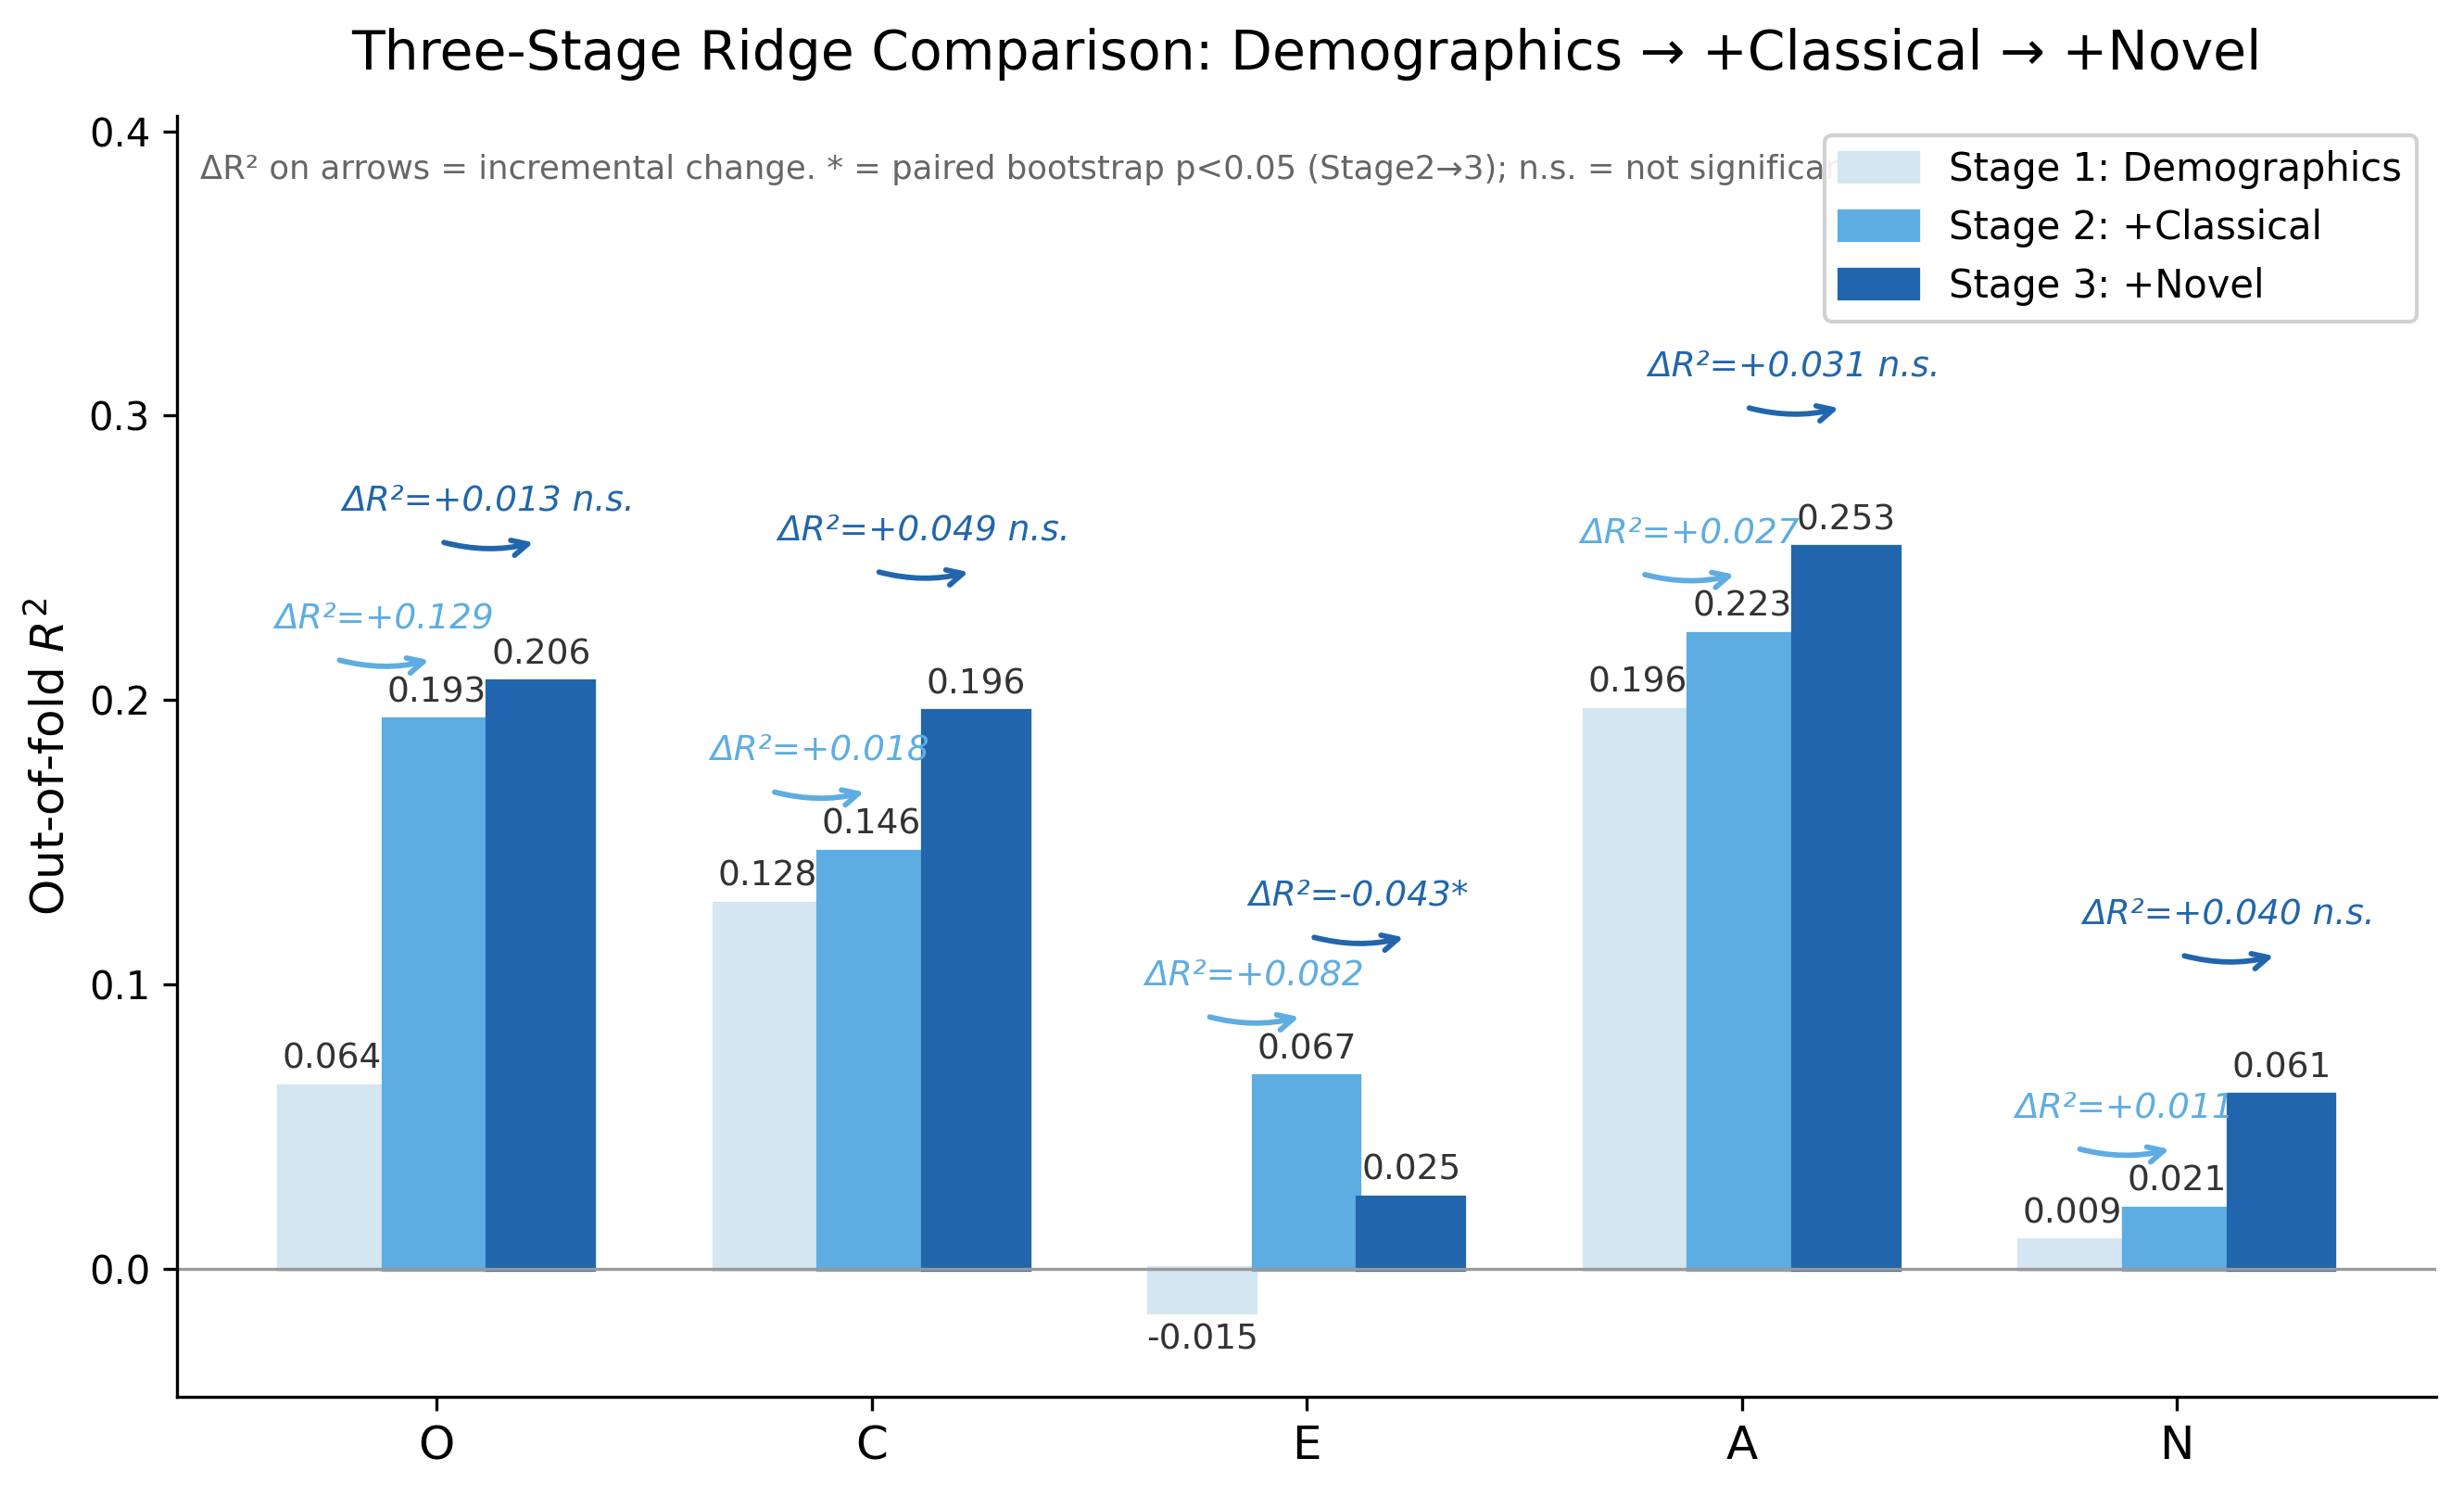
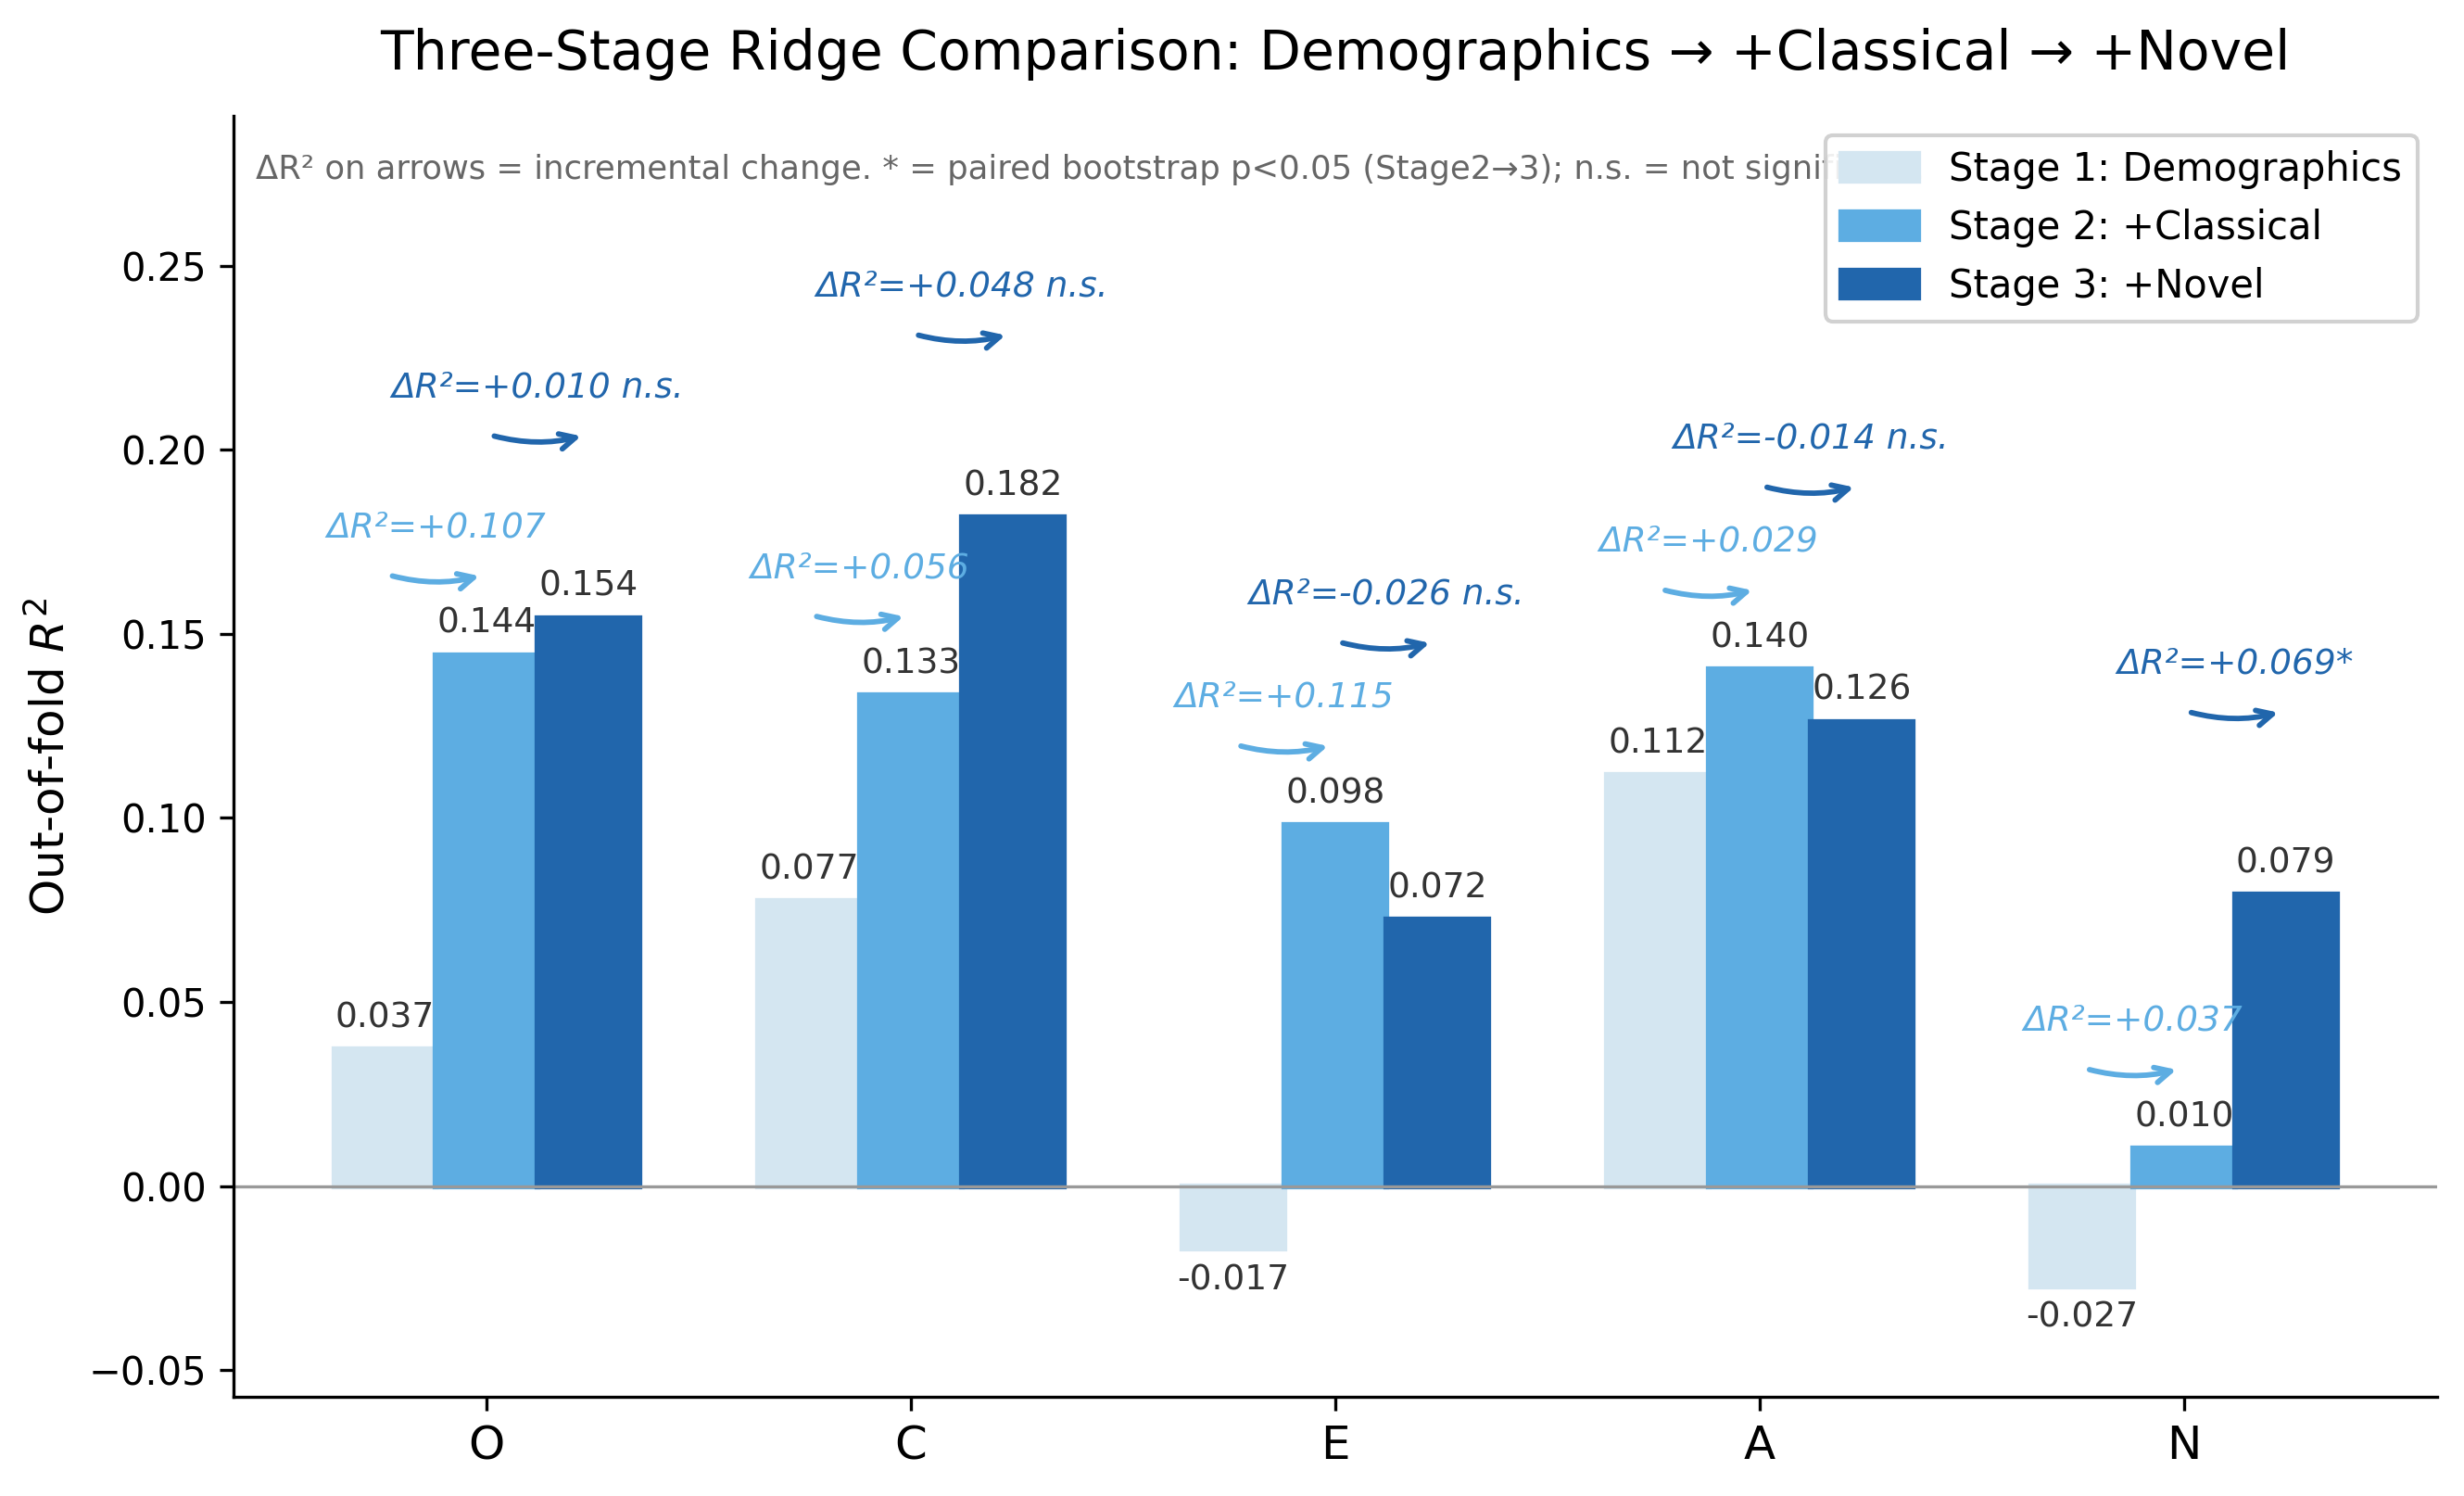
fix: 3段階Ridge系のCVをGroupKFold(subject-wise)に統一し本文を再整合
宗田さんの宿題対応の過程で、3段階Ridge系3スクリプト(ridge/metrics_diag/paired_test)が本文記述(subject-wise/GroupKFold)に反して通常KFoldを使用していた不整合を修正。cv_oof_predictionsをGroupKFold(groups=cejc_person_id)対応にし、図4・表6・付録r版・paired検定を再生成。本文/考察/結論の数値と有意性を新subject-wise結果に更新(Stage2→3はO/C/Nで+R²、有意増分はNのみでありWilcoxon非一致のため頑健でない/Eの有意悪化は消失)。caption等の'被験者単位'を'各レコード(会話×話者)単位'に正確化。uplatex 2pass+dvipdfmx 正常、未定義参照/引用ゼロ。

diff --git a/reports/paper_figs_v2/tab_three_stage.tex b/reports/paper_figs_v2/tab_three_stage.tex
@@ -2,24 +2,24 @@
 \toprule
 Trait & Stage & $n_{feat}$ & $R^2_{oof}$ & RMSE & $\Delta R^2$ & $\Delta$RMSE \\
 \midrule
-O & Demographics & 2 & 0.064 & 0.327 & --- & --- \\
- & +Classical & 12 & 0.193 & 0.304 & +0.129 & -0.023 \\
- & +Novel & 21 & 0.206 & 0.301 & +0.013$^{\mathrm{ns}}$ & -0.003$^{\mathrm{ns}}$ \\
+O & Demographics & 2 & 0.037 & 0.332 & --- & --- \\
+ & +Classical & 12 & 0.144 & 0.313 & +0.107 & -0.019 \\
+ & +Novel & 21 & 0.154 & 0.311 & +0.010$^{\mathrm{ns}}$ & -0.002$^{\mathrm{ns}}$ \\
 \midrule
-C & Demographics & 2 & 0.128 & 0.394 & --- & --- \\
- & +Classical & 12 & 0.146 & 0.390 & +0.018 & -0.004 \\
- & +Novel & 21 & 0.196 & 0.379 & +0.049$^{\mathrm{ns}}$ & -0.011$^{\mathrm{ns}}$ \\
+C & Demographics & 2 & 0.077 & 0.406 & --- & --- \\
+ & +Classical & 12 & 0.133 & 0.393 & +0.056 & -0.013 \\
+ & +Novel & 21 & 0.182 & 0.382 & +0.048$^{\mathrm{ns}}$ & -0.011$^{\mathrm{ns}}$ \\
 \midrule
-E & Demographics & 2 & -0.015 & 0.345 & --- & --- \\
- & +Classical & 12 & 0.067 & 0.331 & +0.082 & -0.014 \\
- & +Novel & 21 & 0.025 & 0.339 & -0.043$^{*}$ & +0.007$^{*}$ \\
+E & Demographics & 2 & -0.017 & 0.346 & --- & --- \\
+ & +Classical & 12 & 0.098 & 0.326 & +0.115 & -0.020 \\
+ & +Novel & 21 & 0.072 & 0.330 & -0.026$^{\mathrm{ns}}$ & +0.005$^{\mathrm{ns}}$ \\
 \midrule
-A & Demographics & 2 & 0.196 & 0.231 & --- & --- \\
- & +Classical & 12 & 0.223 & 0.227 & +0.027 & -0.004 \\
- & +Novel & 21 & 0.253 & 0.222 & +0.031$^{\mathrm{ns}}$ & -0.004$^{\mathrm{ns}}$ \\
+A & Demographics & 2 & 0.112 & 0.242 & --- & --- \\
+ & +Classical & 12 & 0.140 & 0.238 & +0.029 & -0.004 \\
+ & +Novel & 21 & 0.126 & 0.240 & -0.014$^{\mathrm{ns}}$ & +0.002$^{\mathrm{ns}}$ \\
 \midrule
-N & Demographics & 2 & 0.009 & 0.362 & --- & --- \\
- & +Classical & 12 & 0.021 & 0.360 & +0.011 & -0.002 \\
- & +Novel & 21 & 0.061 & 0.353 & +0.040$^{\mathrm{ns}}$ & -0.007$^{\mathrm{ns}}$ \\
+N & Demographics & 2 & -0.027 & 0.369 & --- & --- \\
+ & +Classical & 12 & 0.010 & 0.362 & +0.037 & -0.007 \\
+ & +Novel & 21 & 0.079 & 0.349 & +0.069$^{*}$ & -0.013$^{*}$ \\
 \bottomrule
 \end{tabular}

diff --git a/reports/paper_figs_v2/tab_three_stage_r.tex b/reports/paper_figs_v2/tab_three_stage_r.tex
@@ -2,24 +2,24 @@
 \toprule
 Trait & Stage & $n_{feat}$ & $r_{oof}$ & $r_{foldmean}$ & $\Delta r_{oof}$ \\
 \midrule
-O & Demographics & 2 & 0.270 & 0.336 & --- \\
- & +Classical & 12 & 0.491 & 0.512 & +0.222 \\
- & +Novel & 21 & 0.474 & 0.481 & -0.017 \\
+O & Demographics & 2 & 0.196 & 0.264 & --- \\
+ & +Classical & 12 & 0.418 & 0.401 & +0.223 \\
+ & +Novel & 21 & 0.403 & 0.401 & -0.016 \\
 \midrule
-C & Demographics & 2 & 0.404 & 0.425 & --- \\
- & +Classical & 12 & 0.383 & 0.398 & -0.021 \\
- & +Novel & 21 & 0.443 & 0.469 & +0.060 \\
+C & Demographics & 2 & 0.287 & 0.387 & --- \\
+ & +Classical & 12 & 0.365 & 0.409 & +0.079 \\
+ & +Novel & 21 & 0.426 & 0.447 & +0.061 \\
 \midrule
-E & Demographics & 2 & 0.004 & 0.156 & --- \\
- & +Classical & 12 & 0.262 & 0.291 & +0.258 \\
- & +Novel & 21 & 0.200 & 0.237 & -0.062 \\
+E & Demographics & 2 & -0.009 & 0.121 & --- \\
+ & +Classical & 12 & 0.316 & 0.321 & +0.324 \\
+ & +Novel & 21 & 0.269 & 0.254 & -0.046 \\
 \midrule
-A & Demographics & 2 & 0.479 & 0.529 & --- \\
- & +Classical & 12 & 0.474 & 0.528 & -0.005 \\
- & +Novel & 21 & 0.505 & 0.538 & +0.031 \\
+A & Demographics & 2 & 0.335 & 0.540 & --- \\
+ & +Classical & 12 & 0.378 & 0.530 & +0.042 \\
+ & +Novel & 21 & 0.366 & 0.517 & -0.011 \\
 \midrule
-N & Demographics & 2 & 0.100 & 0.186 & --- \\
- & +Classical & 12 & 0.169 & 0.235 & +0.070 \\
- & +Novel & 21 & 0.268 & 0.311 & +0.099 \\
+N & Demographics & 2 & -0.029 & 0.228 & --- \\
+ & +Classical & 12 & 0.152 & 0.337 & +0.182 \\
+ & +Novel & 21 & 0.294 & 0.406 & +0.142 \\
 \bottomrule
 \end{tabular}

diff --git a/scripts/analysis/three_stage_metrics_diag.py b/scripts/analysis/three_stage_metrics_diag.py
@@ -10,9 +10,9 @@
 
 方針:
   - 特徴量セットとメタデータ結合は three_stage_ridge.py を再利用（同一定義を保証）
-  - CV設定も three_stage_ridge.py と同一（Ridge alpha=100, KFold shuffle seed=42,
-    median imputation + StandardScaler）
-  - ただし集計は OOF-pooled（全foldのout-of-fold予測を連結してから1回計算）
+  - CV設定は本文と同一の subject-wise split（Ridge alpha=100, GroupKFold groups=cejc_person_id,
+    5-fold, median imputation + StandardScaler）。同一話者が訓練・検証foldに跨らない
+  - 集計は OOF-pooled（全foldのout-of-fold予測を連結してから1回計算）
     → fold平均より安定で，予測値vs観測値の散布図(本文の図)と整合する集計
   - 各 stage で pooled の r / R² / RMSE / MAE を算出，stage間Δを併記
   - 参考として fold平均 r（既存図と同じ集計）も併記
@@ -36,7 +36,7 @@ import numpy as np
 import pandas as pd
 from sklearn.impute import SimpleImputer
 from sklearn.linear_model import Ridge
-from sklearn.model_selection import KFold
+from sklearn.model_selection import GroupKFold, KFold
 from sklearn.preprocessing import StandardScaler
 
 from scripts.analysis.three_stage_ridge import (
@@ -58,13 +58,23 @@ def _pearsonr(a, b) -> float:
     return float((a * b).sum() / den) if den != 0 else float("nan")
 
 
-def cv_oof_predictions(X, y, folds, seed, alpha):
-    """同一CV設定でOOF予測を連結して返す． fold平均rも併せて返す．"""
-    kf = KFold(n_splits=folds, shuffle=True, random_state=seed)
+def cv_oof_predictions(X, y, folds, seed, alpha, groups=None):
+    """同一CV設定でOOF予測を連結して返す． fold平均rも併せて返す．
+
+    groups（cejc_person_id）が与えられた場合は GroupKFold（subject-wise split）で
+    同一話者が訓練・検証foldに跨らないようにする（本文の subject-wise CV と整合）。
+    groups=None の場合は従来どおり通常 KFold（shuffle, seed）。
+    """
+    if groups is not None:
+        kf = GroupKFold(n_splits=folds)
+        split_iter = kf.split(X, y, groups)
+    else:
+        kf = KFold(n_splits=folds, shuffle=True, random_state=seed)
+        split_iter = kf.split(X)
     y_true_pool = np.empty_like(y, dtype=float)
     y_pred_pool = np.empty_like(y, dtype=float)
     fold_rs = []
-    for tr, te in kf.split(X):
+    for tr, te in split_iter:
         Xtr, Xte = X[tr], X[te]
         ytr, yte = y[tr], y[te]
 
@@ -115,6 +125,7 @@ def run_one_trait(trait, teacher, metadata_tsv, alpha, folds, seed):
     ok = ~np.isnan(y)
     merged = merged.loc[ok].copy()
     y = y[ok]
+    groups = merged["cejc_person_id"].to_numpy()  # subject-wise split (GroupKFold)
 
     avail_demo = [c for c in DEMOGRAPHICS if c in merged.columns]
     stage_sets = {
@@ -128,7 +139,7 @@ def run_one_trait(trait, teacher, metadata_tsv, alpha, folds, seed):
     for stage in (1, 2, 3):
         cols = stage_sets[stage]
         X = merged[cols].apply(pd.to_numeric, errors="coerce").to_numpy(float)
-        yt, yp, fold_mean_r = cv_oof_predictions(X, y, folds, seed, alpha)
+        yt, yp, fold_mean_r = cv_oof_predictions(X, y, folds, seed, alpha, groups=groups)
         m = metrics_from_oof(yt, yp)
         row = {
             "trait": trait,

diff --git a/scripts/analysis/three_stage_paired_test.py b/scripts/analysis/three_stage_paired_test.py
@@ -8,7 +8,8 @@
   ペア比較で検定する．
 
 手法:
-  - three_stage_metrics_diag.py と同一CV設定でStage2/Stage3のOOF予測を取得
+  - three_stage_metrics_diag.py と同一CV設定（GroupKFold subject-wise, groups=cejc_person_id）で
+    Stage2/Stage3のOOF予測を取得（同一話者が訓練・検証foldに跨らない）
   - 各レコードの二乗誤差 SE2, SE3 を算出（ペア）
   - 改善量 d_i = SE2_i - SE3_i （正なら Stage3 が誤差を減らした）
   - paired bootstrap（5000回, seed固定）で mean(d) の95%CIと両側p
@@ -67,6 +68,7 @@ def run_one_trait(trait, teacher, metadata_tsv, alpha, folds, seed, n_boot):
     ok = ~np.isnan(y)
     merged = merged.loc[ok].copy()
     y = y[ok]
+    groups = merged["cejc_person_id"].to_numpy()  # subject-wise split (GroupKFold)
 
     avail_demo = [c for c in DEMOGRAPHICS if c in merged.columns]
     cols2 = avail_demo + CLASSICAL_FEATURES
@@ -75,9 +77,9 @@ def run_one_trait(trait, teacher, metadata_tsv, alpha, folds, seed, n_boot):
     X2 = merged[cols2].apply(pd.to_numeric, errors="coerce").to_numpy(float)
     X3 = merged[cols3].apply(pd.to_numeric, errors="coerce").to_numpy(float)
 
-    yt2, yp2, _ = cv_oof_predictions(X2, y, folds, seed, alpha)
-    yt3, yp3, _ = cv_oof_predictions(X3, y, folds, seed, alpha)
-    # yt2 と yt3 は同一（同じy, 同じfold分割）なのでペア対応が保証される
+    yt2, yp2, _ = cv_oof_predictions(X2, y, folds, seed, alpha, groups=groups)
+    yt3, yp3, _ = cv_oof_predictions(X3, y, folds, seed, alpha, groups=groups)
+    # yt2 と yt3 は同一（同じy, 同じgroups, 同じGroupKFold分割）なのでペア対応が保証される
     assert np.allclose(yt2, yt3)
 
     se2 = (yp2 - yt2) ** 2

diff --git a/scripts/analysis/three_stage_ridge.py b/scripts/analysis/three_stage_ridge.py
@@ -139,7 +139,7 @@ def load_and_join_metadata(
     # Inner join on conversation_id × speaker_id
     n_before = len(df)
     merged = df.merge(
-        meta[["conversation_id", "speaker_id", "gender", "age"]].drop_duplicates(),
+        meta[["conversation_id", "speaker_id", "cejc_person_id", "gender", "age"]].drop_duplicates(),
         on=["conversation_id", "speaker_id"],
         how="inner",
         suffixes=("", "_meta"),